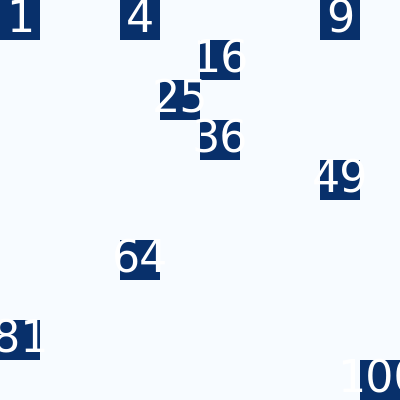
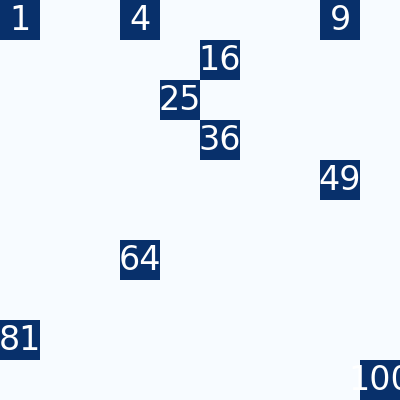
s

diff --git a/_posts/2017-12-29-blog-post-2.md b/_posts/2017-12-29-blog-post-2.md
@@ -44,7 +44,7 @@ for i in range(100):
 When we take a look at the `coins` variable, we see that those coins in positions which are perfect squares pop out.  That is an interesting result, but what is more interesting is reasoning out the solution without doing any computation at all!
 
 
-![](/images/blog/coins.png)
+<div style="text-align:center"><img src ="/images/blog/coins.png" /></div>
 
 # Reasoning Out the Solution.
 
